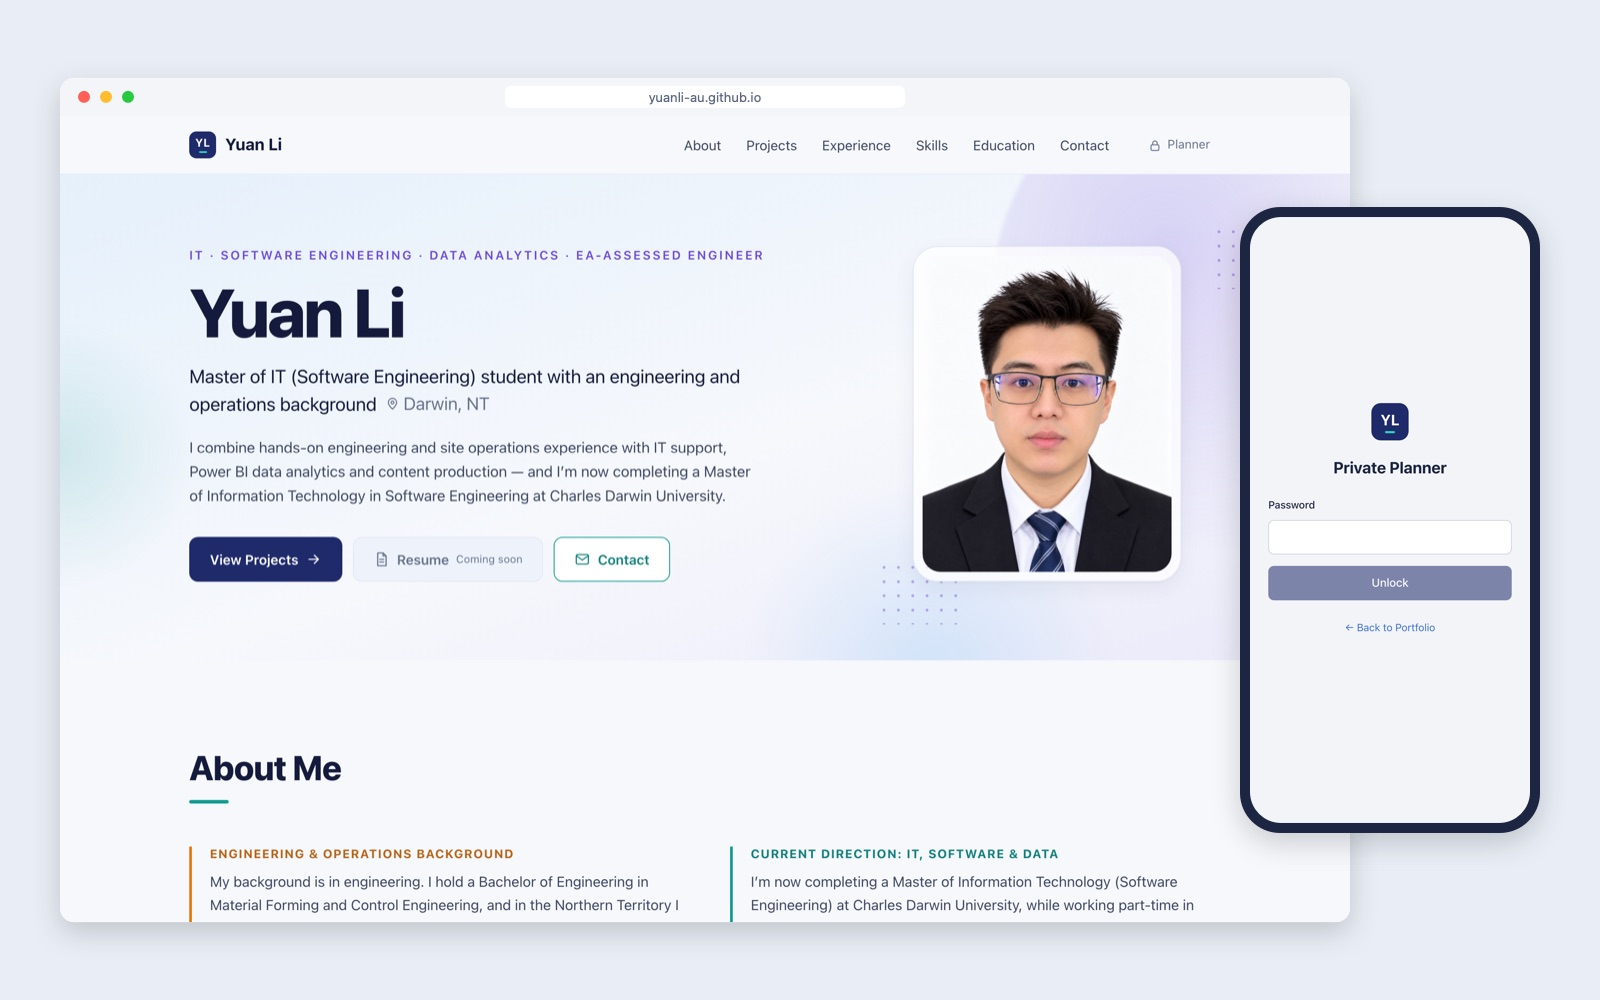
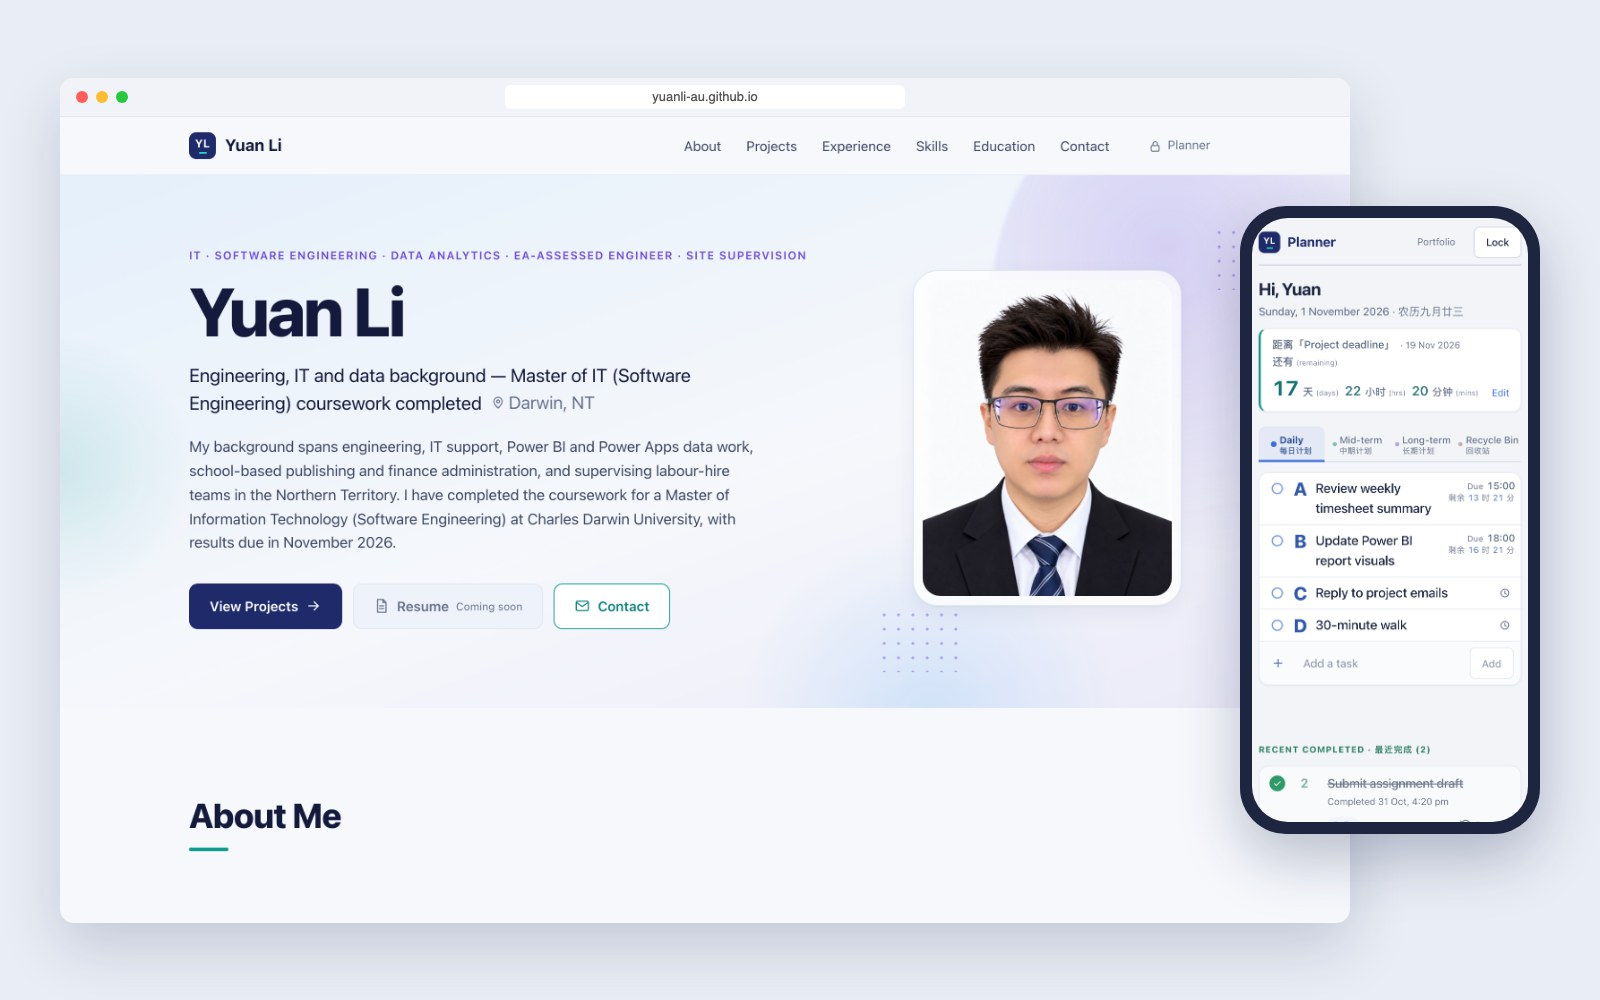
feat: update portfolio media, planner showcase and YouTube

diff --git a/src/data/resume.js b/src/data/resume.js
@@ -22,12 +22,26 @@ import lpcWorkplaceThumb from '../assets/publications/lpc/lpc-workplace-800.jpg'
 import lpcWorkplaceFull from '../assets/publications/lpc/lpc-workplace-1800.jpg'
 import tcassTeamThumb from '../assets/projects/tcass/tcass-team-400.jpg'
 import tcassTeamFull from '../assets/projects/tcass/tcass-team-1600.jpg'
+import tcassOverviewThumb from '../assets/projects/tcass/tcass-overview-800.jpg'
+import tcassOverviewFull from '../assets/projects/tcass/tcass-overview-1600.jpg'
+import tcassOperationsThumb from '../assets/projects/tcass/tcass-operations-800.jpg'
+import tcassOperationsFull from '../assets/projects/tcass/tcass-operations-1600.jpg'
+import gfhTractorThumb from '../assets/work/plantation/gfh-tractor-800.jpg'
+import gfhTractorFull from '../assets/work/plantation/gfh-tractor-1440.jpg'
+import plantationTeamThumb from '../assets/work/plantation/plantation-team-800.jpg'
+import plantationTeamFull from '../assets/work/plantation/plantation-team-1600.jpg'
 import whiteCardThumb from '../assets/work/builder-clean/white-card-800.jpg'
 import whiteCardFull from '../assets/work/builder-clean/white-card-1600.jpg'
 import lpcMaterialsThumb from '../assets/publications/lpc/lpc-materials-800.jpg'
 import lpcMaterialsFull from '../assets/publications/lpc/lpc-materials-1600.jpg'
 import websiteShowcaseThumb from '../assets/projects/website/website-showcase-800.jpg'
 import websiteShowcaseFull from '../assets/projects/website/website-showcase-1600.jpg'
+import plannerDailyThumb from '../assets/projects/website/planner-daily-400.jpg'
+import plannerDailyFull from '../assets/projects/website/planner-daily-1170.jpg'
+import plannerMidThumb from '../assets/projects/website/planner-mid-400.jpg'
+import plannerMidFull from '../assets/projects/website/planner-mid-1170.jpg'
+import plannerLongThumb from '../assets/projects/website/planner-long-400.jpg'
+import plannerLongFull from '../assets/projects/website/planner-long-1170.jpg'
 
 export const profile = {
   name: 'Yuan Li',
@@ -61,6 +75,7 @@ export const about = [
 // showcase: optional preview at the bottom of the card: { label, note, image,
 //   imageFull, alt, caption, icon }. With an image it opens the lightbox and
 //   the card spans the full row; without one it shows a small placeholder.
+// media: optional screenshots (same format as Experience media below)
 // links: optional [{ label, url }]
 export const projects = [
   {
@@ -83,6 +98,21 @@ export const projects = [
       alt: 'Yuan Li with team members during the TCASS client project',
       caption: 'TCASS Project Team',
     },
+    // Staff names obscured in the screenshots
+    media: [
+      {
+        image: tcassOverviewThumb,
+        imageFull: tcassOverviewFull,
+        alt: 'Power BI Overview page of the TCASS manual handling report, showing task totals, difficulty and pain rates, equipment usage, task trends and common transfer paths, with staff names obscured',
+        caption: 'Overview dashboard (staff names obscured)',
+      },
+      {
+        image: tcassOperationsThumb,
+        imageFull: tcassOperationsFull,
+        alt: 'Power BI Operations & Risk Analysis page showing task frequency by hour, tasks by day, difficulty by task type and patient movement flow',
+        caption: 'Operations & Risk Analysis dashboard',
+      },
+    ],
   },
   // Only confirmed facts so far. To add once Yuan confirms: project outcomes,
   // other tools used, and real photos (set showcase.image / imageFull / alt).
@@ -127,10 +157,39 @@ export const projects = [
       label: 'Live site',
       image: websiteShowcaseThumb,
       imageFull: websiteShowcaseFull,
-      alt: 'Screenshots of this website: the portfolio home page on desktop and the Planner unlock screen on mobile',
+      alt: 'Screenshots of this website: the portfolio home page on desktop and the unlocked Planner (sample data) on mobile',
       caption: 'Personal Portfolio & Planner Website — yuanli-au.github.io',
       note: 'yuanli-au.github.io',
     },
+    // Captured from an isolated demo build with sample data (no real tasks).
+    // tall: the lightbox shows the long screenshot at phone width and scrolls.
+    // shortCaption: thumbnail label on phones (the lightbox keeps caption).
+    media: [
+      {
+        image: plannerDailyThumb,
+        imageFull: plannerDailyFull,
+        alt: 'Full-page mobile screenshot of the unlocked Planner showing the Daily plan with sample data',
+        caption: 'Daily Planner · sample data',
+        shortCaption: 'Daily',
+        tall: true,
+      },
+      {
+        image: plannerMidThumb,
+        imageFull: plannerMidFull,
+        alt: 'Full-page mobile screenshot of the unlocked Planner showing the Mid-term plan with sample data',
+        caption: 'Mid-term Planner · sample data',
+        shortCaption: 'Mid-term',
+        tall: true,
+      },
+      {
+        image: plannerLongThumb,
+        imageFull: plannerLongFull,
+        alt: 'Full-page mobile screenshot of the unlocked Planner showing the Long-term plan with sample data',
+        caption: 'Long-term Planner · sample data',
+        shortCaption: 'Long-term',
+        tall: true,
+      },
+    ],
   },
 ]
 
@@ -139,6 +198,7 @@ const plantationTeamWork =
   'Led the team in drip-irrigation pipe repairs, tree pruning, weeding and vine removal, pesticide spraying of trees, planting new trees, and manual removal of unwanted trees as directed by the farm'
 
 // area: short label showing which part of the background this role covers
+// links: optional [{ label, url }] shown under the points (opens in a new tab)
 // media: work photos or certificates for any role, shown as small click-to-
 //   enlarge thumbnails: [{ image, imageFull, alt, caption }]. An empty list
 //   shows nothing. Obscure card numbers, signatures and internal data first.
@@ -300,7 +360,14 @@ export const experience = [
       'Supervised a labour-hire team on a sandalwood plantation, allocating tasks according to the host farm’s work plans',
       plantationTeamWork,
     ],
-    media: [],
+    media: [
+      {
+        image: gfhTractorThumb,
+        imageFull: gfhTractorFull,
+        alt: 'Yuan Li with two co-workers in front of a tractor on a GFH sandalwood plantation',
+        caption: 'On site at a GFH sandalwood plantation',
+      },
+    ],
   },
   {
     role: 'YouTube Content Creator',
@@ -311,8 +378,9 @@ export const experience = [
     accent: 'coral',
     points: [
       'Ran content planning, filming, editing and audience engagement end to end',
-      'Reached approximately 27,000 subscribers at its peak; around 24,000 remain after more than three years of inactivity',
+      'Reached approximately 27,000 subscribers at its peak; approximately 22.4K subscribers currently, with no new content for more than three years',
     ],
+    links: [{ label: 'YouTube channel', url: 'https://www.youtube.com/@qingganrexian' }],
     media: [],
   },
   {
@@ -328,7 +396,14 @@ export const experience = [
       'Carried out simple repairs and routine oil changes on team vehicles; sourced and purchased parts and replaced faulty components',
       'Organised drinking water and rest breaks for work in high heat, and promptly reported injuries and safety hazards',
     ],
-    media: [],
+    media: [
+      {
+        image: plantationTeamThumb,
+        imageFull: plantationTeamFull,
+        alt: 'Yuan Li with members of the plantation work team in high-visibility workwear, Douglas Daly',
+        caption: 'Plantation work team · Douglas Daly',
+      },
+    ],
   },
   {
     role: 'Tmall Store Operations',

diff --git a/src/components/portfolio/portfolio.css b/src/components/portfolio/portfolio.css
@@ -1084,6 +1084,32 @@
   aspect-ratio: 4 / 3;
 }
 
+/* Dashboard screenshots in a project card: two per row, wide ratio */
+.exp-media.exp-media-screens {
+  grid-template-columns: repeat(2, minmax(0, 1fr));
+  margin-bottom: 16px;
+}
+
+.exp-media-screens .media {
+  aspect-ratio: 2 / 1;
+}
+
+.exp-media-screens .media img {
+  object-position: top left;
+}
+
+/* Wide card: three uncropped phone screenshots at their natural ratio */
+.card-wide .exp-media-screens {
+  grid-template-columns: repeat(3, minmax(0, 200px));
+  align-items: start;
+}
+
+.card-wide .exp-media-screens .media,
+.card-wide .exp-media-screens .media img {
+  height: auto;
+  aspect-ratio: auto;
+}
+
 .exp-media-caption {
   display: block;
   margin-top: 6px;
@@ -1091,9 +1117,21 @@
   color: var(--text-muted);
 }
 
+.caption-short {
+  display: none;
+}
+
 @media (max-width: 600px) {
   .exp-media {
     grid-template-columns: repeat(2, minmax(0, 1fr));
+  }
+
+  .caption-full {
+    display: none;
+  }
+
+  .caption-short {
+    display: inline;
   }
 }
 
@@ -1248,6 +1286,23 @@
   max-height: calc(100dvh - 140px);
   object-fit: contain;
   border-radius: 8px;
+}
+
+/* Long phone screenshots: full phone width, scroll down to read */
+.lightbox-tall {
+  overflow-y: auto;
+}
+
+.lightbox-tall .lightbox-figure {
+  height: auto;
+  min-height: 100%;
+  justify-content: flex-start;
+}
+
+.lightbox-tall .lightbox-figure img {
+  width: min(100%, 430px);
+  max-width: none;
+  max-height: none;
 }
 
 .lightbox-figure figcaption {

diff --git a/src/components/portfolio/ExperienceMedia.jsx b/src/components/portfolio/ExperienceMedia.jsx
@@ -3,15 +3,27 @@ import MediaSlot from './MediaSlot.jsx'
 // Optional work photos / certificates for a role (click to enlarge).
 // Renders nothing until confirmed images are added to the role's `media`
 // list in resume.js, so roles without images show no empty boxes.
-export default function ExperienceMedia({ items }) {
+export default function ExperienceMedia({ items, className = '' }) {
   if (!items?.length) return null
 
   return (
-    <ul className="exp-media">
+    <ul className={`exp-media ${className}`}>
       {items.map((item) => (
         <li key={item.alt}>
           <MediaSlot {...item} />
-          {item.caption && <span className="exp-media-caption">{item.caption}</span>}
+          {item.caption && (
+            <span className="exp-media-caption">
+              {item.shortCaption ? (
+                // Short label on phones; the lightbox keeps the full caption
+                <>
+                  <span className="caption-full">{item.caption}</span>
+                  <span className="caption-short">{item.shortCaption}</span>
+                </>
+              ) : (
+                item.caption
+              )}
+            </span>
+          )}
         </li>
       ))}
     </ul>

diff --git a/src/components/portfolio/MediaSlot.jsx b/src/components/portfolio/MediaSlot.jsx
@@ -4,7 +4,8 @@ import ImageLightbox from './ImageLightbox.jsx'
 
 // One image area: a real image (click to enlarge) or a quiet placeholder
 // reserved for a future, confirmed image.
-export default function MediaSlot({ image, imageFull, alt, caption, label, icon = 'book', className = '' }) {
+// tall: a long screenshot, shown at phone width in a scrolling lightbox.
+export default function MediaSlot({ image, imageFull, alt, caption, label, icon = 'book', className = '', tall = false }) {
   const [open, setOpen] = useState(false)
 
   if (!image) {
@@ -34,6 +35,7 @@ export default function MediaSlot({ image, imageFull, alt, caption, label, icon 
         src={imageFull ?? image}
         alt={alt}
         caption={caption}
+        tall={tall}
         onClose={() => setOpen(false)}
       />
     </>

diff --git a/src/components/portfolio/ImageLightbox.jsx b/src/components/portfolio/ImageLightbox.jsx
@@ -3,7 +3,7 @@ import Icon from './Icon.jsx'
 
 // Minimal lightbox built on the native <dialog> element: the browser handles
 // Escape-to-close, focus and the backdrop. Clicking outside the image closes it.
-export default function ImageLightbox({ open, src, alt, caption, onClose }) {
+export default function ImageLightbox({ open, src, alt, caption, tall = false, onClose }) {
   const ref = useRef(null)
 
   useEffect(() => {
@@ -15,7 +15,7 @@ export default function ImageLightbox({ open, src, alt, caption, onClose }) {
   return (
     <dialog
       ref={ref}
-      className="lightbox"
+      className={tall ? 'lightbox lightbox-tall' : 'lightbox'}
       aria-label={alt}
       onClose={onClose}
       onClick={(e) => {

diff --git a/src/components/portfolio/Experience.jsx b/src/components/portfolio/Experience.jsx
@@ -29,6 +29,15 @@ export default function Experience() {
                     <li key={point}>{point}</li>
                   ))}
                 </ul>
+                {job.links?.length > 0 && (
+                  <p className="card-links">
+                    {job.links.map((link) => (
+                      <a key={link.url} href={link.url} target="_blank" rel="noreferrer">
+                        {link.label} ↗
+                      </a>
+                    ))}
+                  </p>
+                )}
                 <ExperienceMedia items={job.media} />
               </>
             )}

diff --git a/src/components/portfolio/Projects.jsx b/src/components/portfolio/Projects.jsx
@@ -1,4 +1,5 @@
 import { projects } from '../../data/resume.js'
+import ExperienceMedia from './ExperienceMedia.jsx'
 import Icon from './Icon.jsx'
 import MediaSlot from './MediaSlot.jsx'
 import Section from './Section.jsx'
@@ -35,6 +36,7 @@ export default function Projects() {
                 <li key={point}>{point}</li>
               ))}
             </ul>
+            <ExperienceMedia items={project.media} className="exp-media-screens" />
             <Tags items={project.tags} />
             {project.links?.length > 0 && (
               <p className="card-links">
